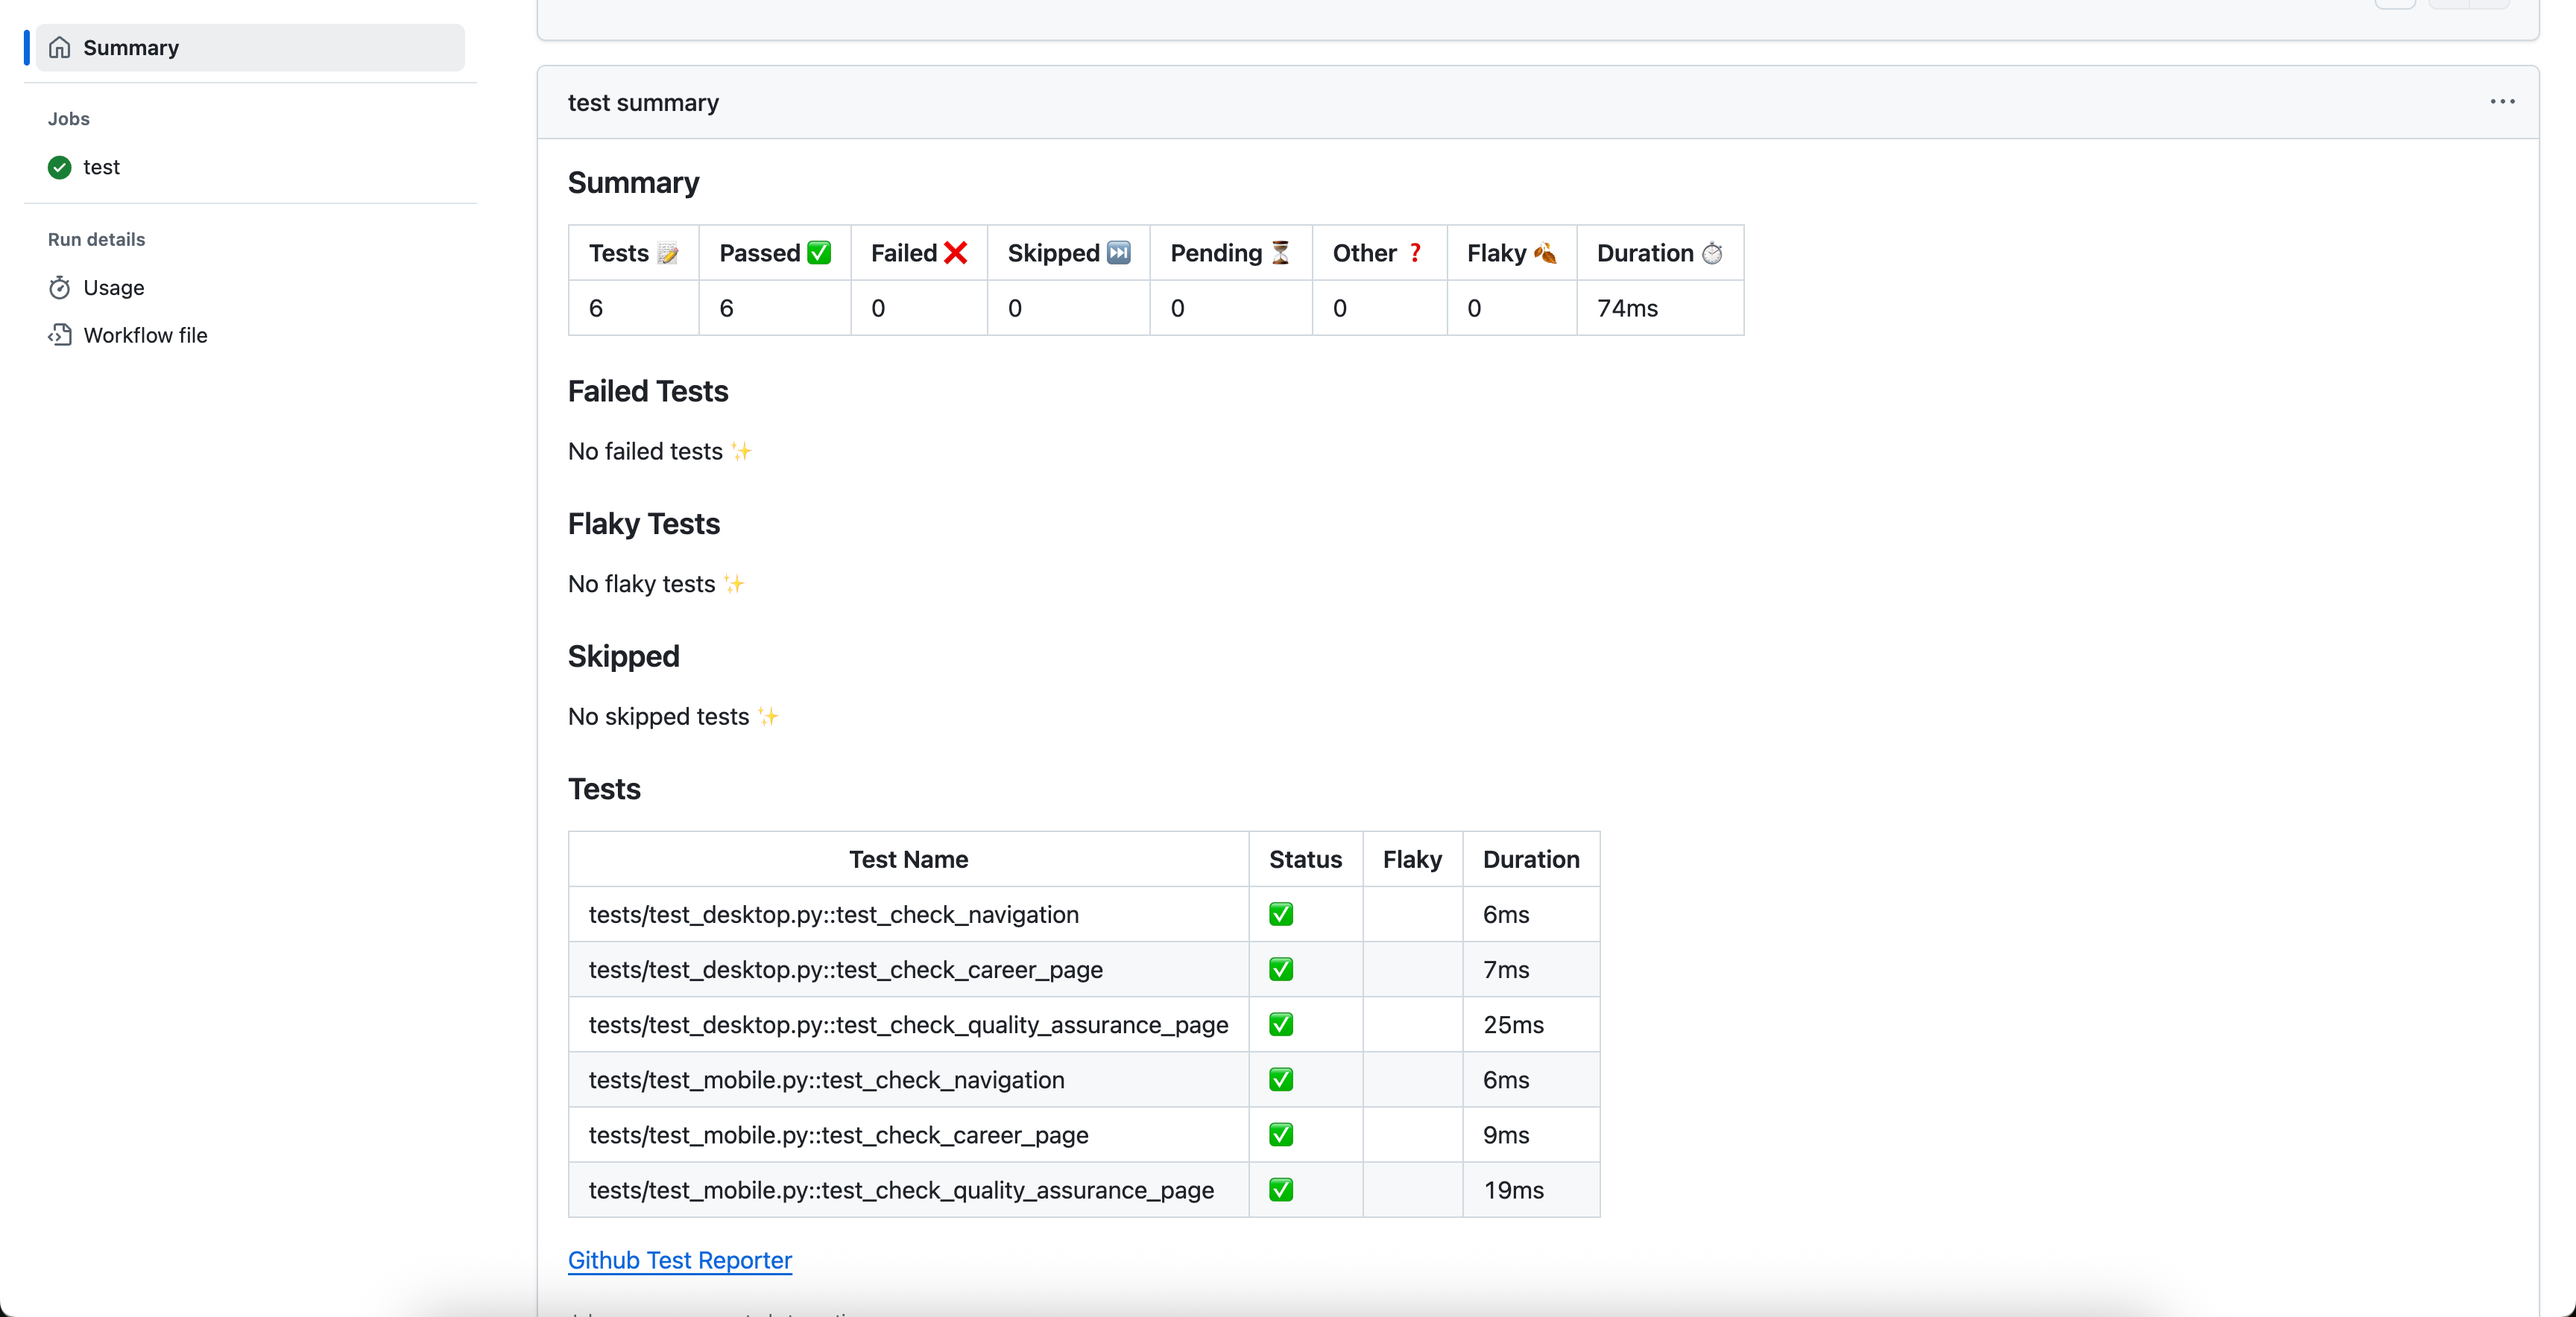
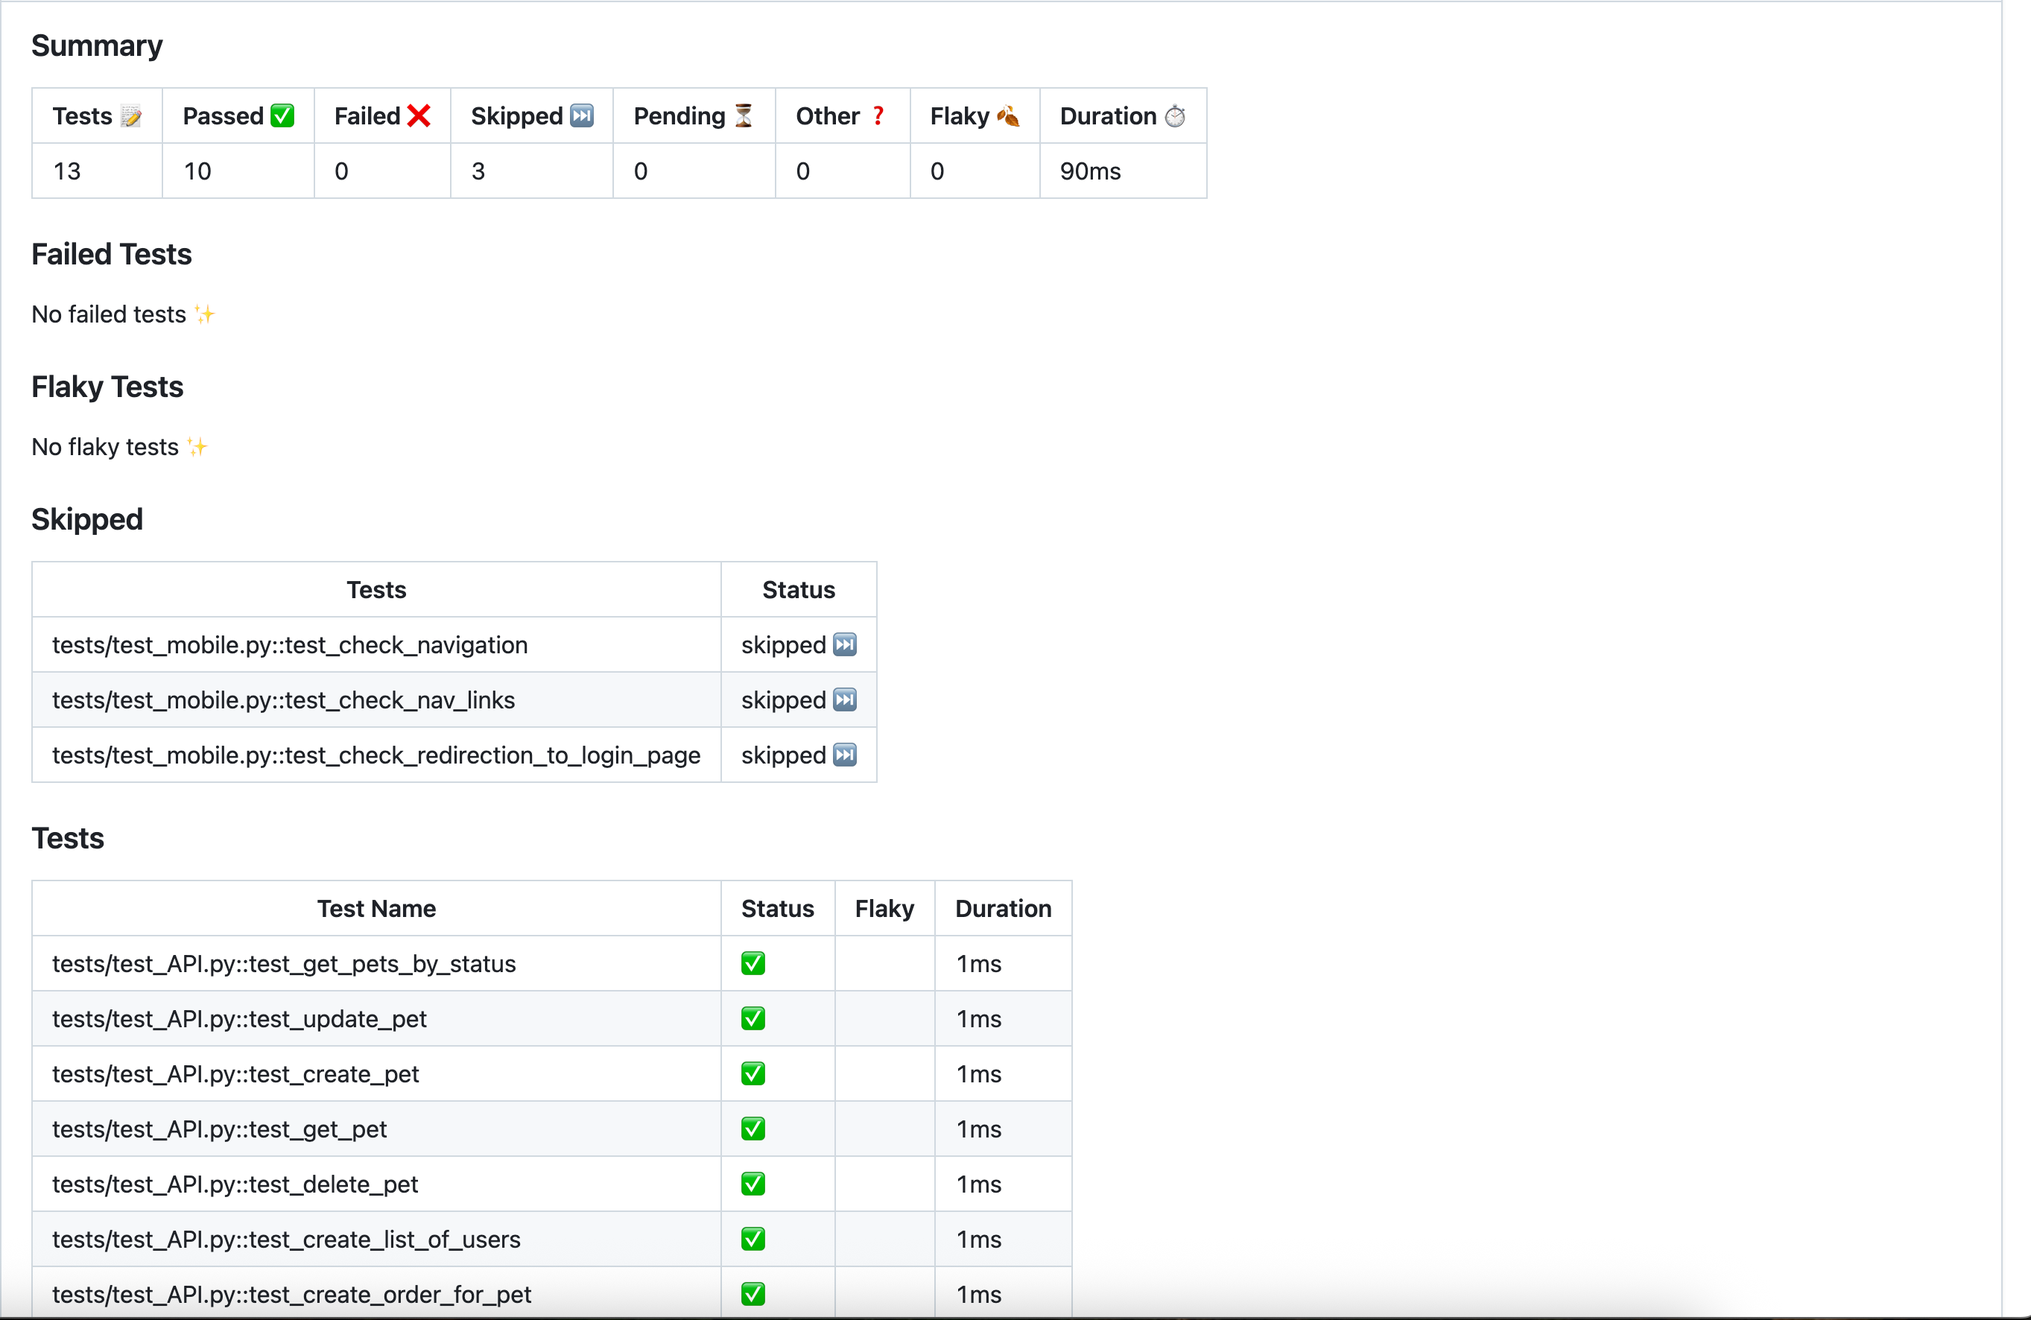
Additional fixes

diff --git a/tests/test_API.py b/tests/test_API.py
@@ -4,7 +4,7 @@ from pytest import mark
 
 
 @mark.api
-@allure.title("Find Pets by status")
+@allure.title("1. Find Pets by status")
 def test_get_pets_by_status():
     url = "https://petstore.swagger.io/v2/pet/findByStatus?status=available&status=pending&status=sold"
     response = requests.get(url)
@@ -20,7 +20,7 @@ def test_get_pets_by_status():
       assert pet["status"]
 
 @mark.api
-@allure.title("Update an existing pet")
+@allure.title("2. Update an existing pet")
 def test_update_pet():
     url = "https://petstore.swagger.io/v2/pet" 
     pet_id = 98  # Existing pet ID to update
@@ -37,7 +37,7 @@ def test_update_pet():
     assert pet["name"] == updated_pet["name"]
 
 @mark.api
-@allure.title("Add a new pet to the store")
+@allure.title("3. Add a new pet to the store")
 def test_create_pet():
     url = "https://petstore.swagger.io/v2/pet"
     pet_id = 99
@@ -54,7 +54,7 @@ def test_create_pet():
     assert pet["name"] == new_pet["name"]
 
 @mark.api
-@allure.title("Find pet by ID")
+@allure.title("4. Find pet by ID")
 @mark.parametrize("pet_id, status_code", [
     (99, 200),    # Valid pet ID
     (999, 404),  # Non-existent pet ID
@@ -68,7 +68,7 @@ def test_get_pet(pet_id, status_code):
 
 
 @mark.api
-@allure.title("Delete a pet")
+@allure.title("5. Delete a pet")
 @mark.parametrize("pet_id, status_code", [
     (99, 200),    # Valid pet ID
     (999, 404),  # Non-existent pet ID
@@ -80,7 +80,7 @@ def test_delete_pet(pet_id, status_code):
 
 
 @mark.api
-@allure.title("Create list of users with given input array")
+@allure.title("6. Create list of users with given input array")
 @mark.parametrize("request_body, status_code", [
     ([{"id": 0, "username": "ivalchuk", "firstName": "Ivan", "lastName": "Valchuk", "email": "ivan.valchuk@gmail.com", "password": "", "phone": "+342344324324"}], 200),    # Valid body
     ('{"id": 23, "category": {"id": 5, "name": "Ivan Valchuk"}}', 500),  # Wrong body
@@ -93,7 +93,7 @@ def test_create_list_of_users(request_body, status_code):
 
 
 @mark.api
-@allure.title("Place an order for a pet")
+@allure.title("7. Place an order for a pet")
 @mark.parametrize("request_body, status_code", [
     ({"id": 0, "petId": 0, "quantity": 0, "shipDate": "2025-05-29T18:04:43.451Z", "status": "placed", "complete": True}, 200),    # Valid body
     ({"id:": 0, "petId": 0, "quantity": 0, "shipDate": "2025-29T18:04:43.451Z", "status": "placed", "complete": True}, 500),  # Wrong body

diff --git a/tests/test_mobile.py b/tests/test_mobile.py
@@ -3,20 +3,20 @@ from pytest import mark
 
 
 @mark.mobile
-@allure.title("Visit https://useinsider.com/ and check if the navigation menu is present for the mobile version")
+@allure.title("1. Visit https://useinsider.com/ and check if the navigation menu is present for the mobile version")
 def test_check_navigation(mobile_app):
   # Check if the navigation menu is present
   assert mobile_app.is_menu_button_visible, "Navigation menu not shown"
  
 @mark.mobile
-@allure.title("Check that all the navigation links are available in the navigation dropdown menu")
+@allure.title("2. Check that all the navigation links are available in the navigation dropdown menu")
 def test_check_nav_links(mobile_app):
   mobile_app.click_link("Toggle navigation")
   assert mobile_app.is_nav_link_visible(), "Navigation link not visible"
   mobile_app.click_link("Toggle navigation")
 
 @mark.mobile
-@allure.title("Check if the user gets redirected to the login page after clicking the Login button")
+@allure.title("3. Check if the user gets redirected to the login page after clicking the Login button")
 def test_check_redirection_to_login_page(mobile_app):
   # Accept the use of cookies
   mobile_app.click_button("Accept All")

diff --git a/page_objects/insiderQualityAssurancePage.py b/page_objects/insiderQualityAssurancePage.py
@@ -8,12 +8,12 @@ class QualityAssurancePage:
     @allure.step
     def choose_location_from_dropdown(self, label: str):
         self.page.locator("//select[@name='filter-by-location']").select_option(label)
-        self.page.wait_for_load_state("domcontentloaded")
+        self.page.wait_for_load_state()
     
     @allure.step
     def choose_department_from_dropdown(self, label: str):
         self.page.locator("//select[@name='filter-by-department']").select_option(label)
-        self.page.wait_for_load_state("domcontentloaded")
+        self.page.wait_for_load_state()
 
     @allure.step
     def check_job_exists(self, idx: int, open_position: str):

diff --git a/README.md b/README.md
@@ -31,20 +31,13 @@ For convenience, the tests are run in the slow mode, which can also be adjusted 
 2. Install Allure via "brew install allure" for Mac or check https://allurereport.org/docs/install for other operating systems.
 3. "cd" to the folder "insider-qa-tech-task".
 4. Run the command for generating the report: "allure serve report" and the report will be opened in a separate tab of the browser.
-![alt text](image-7.png)
+![alt text](image-6.png)
 5. Screenshots for the failed tests are taken and recoded in the Allure report, which can be seen as follows:
 ![alt text](image.png)
-6. A generated test report through "GitHub" actions can be found under the "Actions" tab at https://github.com/ivanvalchuk/insider-qa-tech-task
-   Click on a corresponding workflow run to see the details. 
-![alt text](image-1.png)
-7. API tests are also included in the report:
-![alt text](image-2.png)
-##### ***Please note that html report can also be generated by running the "pytest --html=report.html" command.
 
 #### CI
 The tests are also run on each push and pull request to the respository in GitHub, which is configured in "playwright.yml" as part of the ".github/workflows" folder:
 ![alt text](image-4.png)
-
-##### The generated html report can also be viewed by opening the "./report.html" file:
-![alt text](image-5.png)
-##### The screenshots of the found issues recorded in Allure Report can be found in the "report" folder for reference purposes.
+A generated test report through "GitHub" actions can be found under the "Actions" tab at https://github.com/ivanvalchuk/insider-qa-tech-task
+   Click on a corresponding workflow run to see the details. 
+![alt text](image-1.png)
